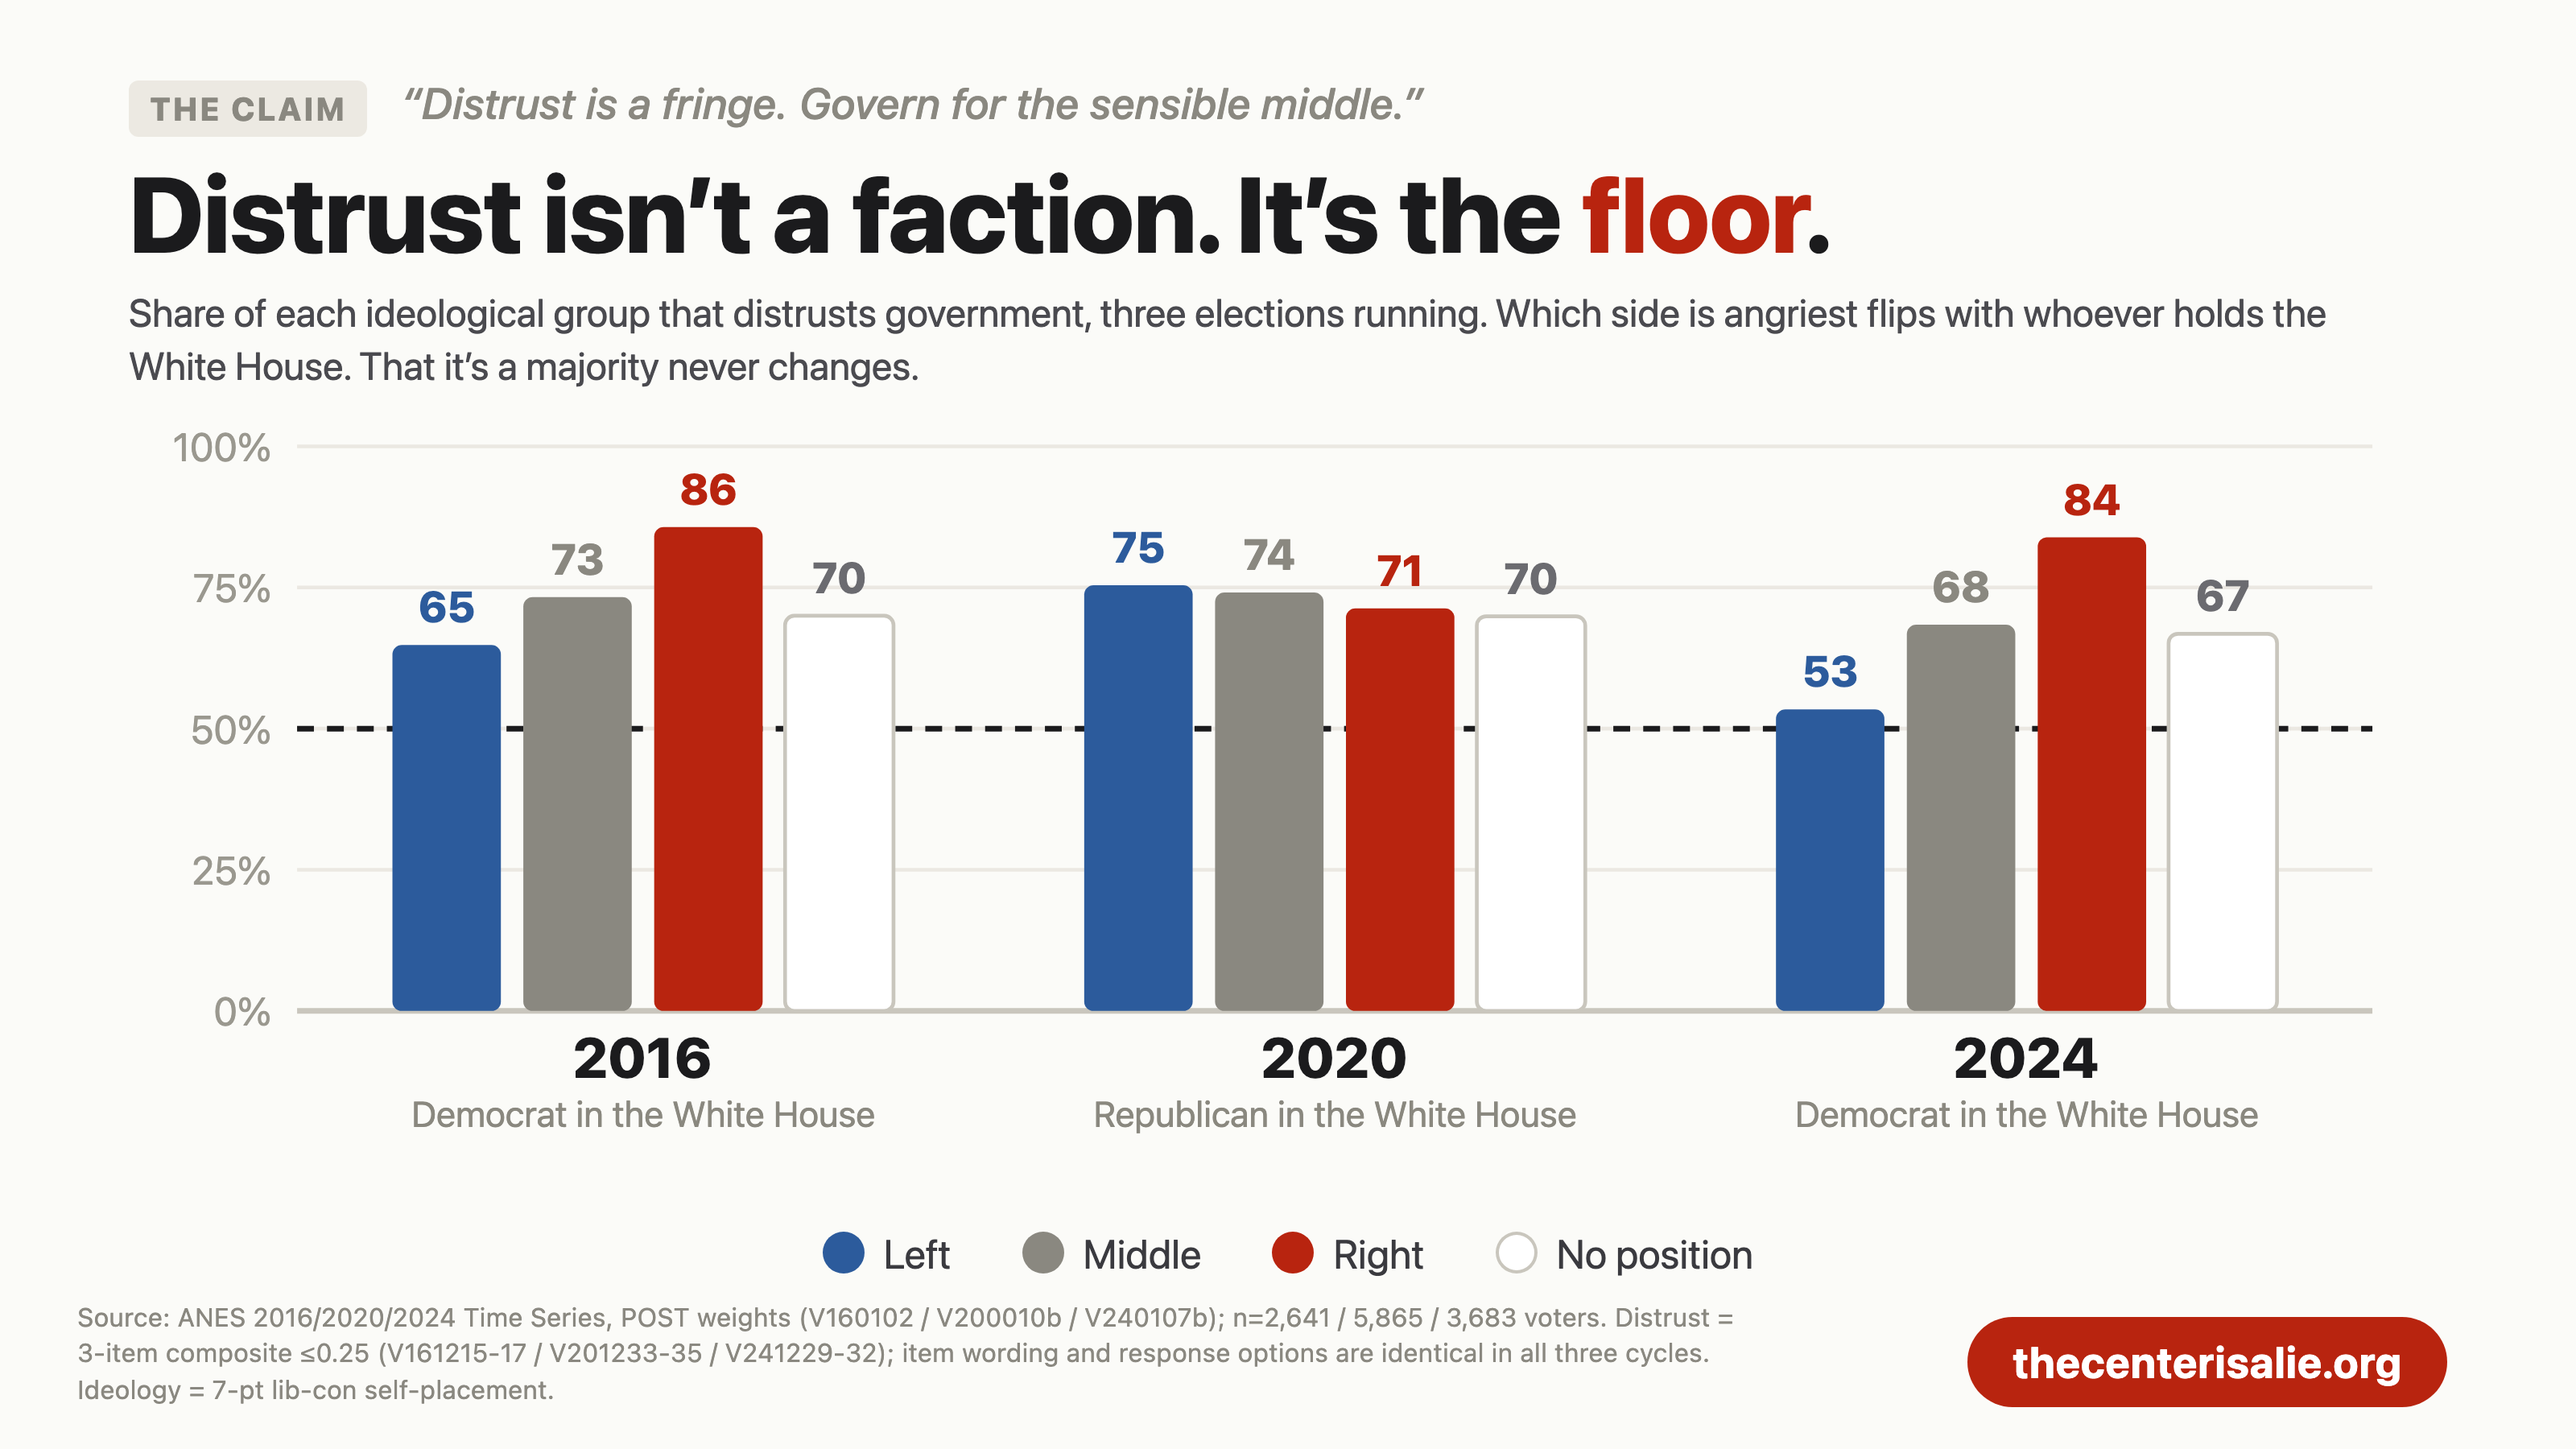
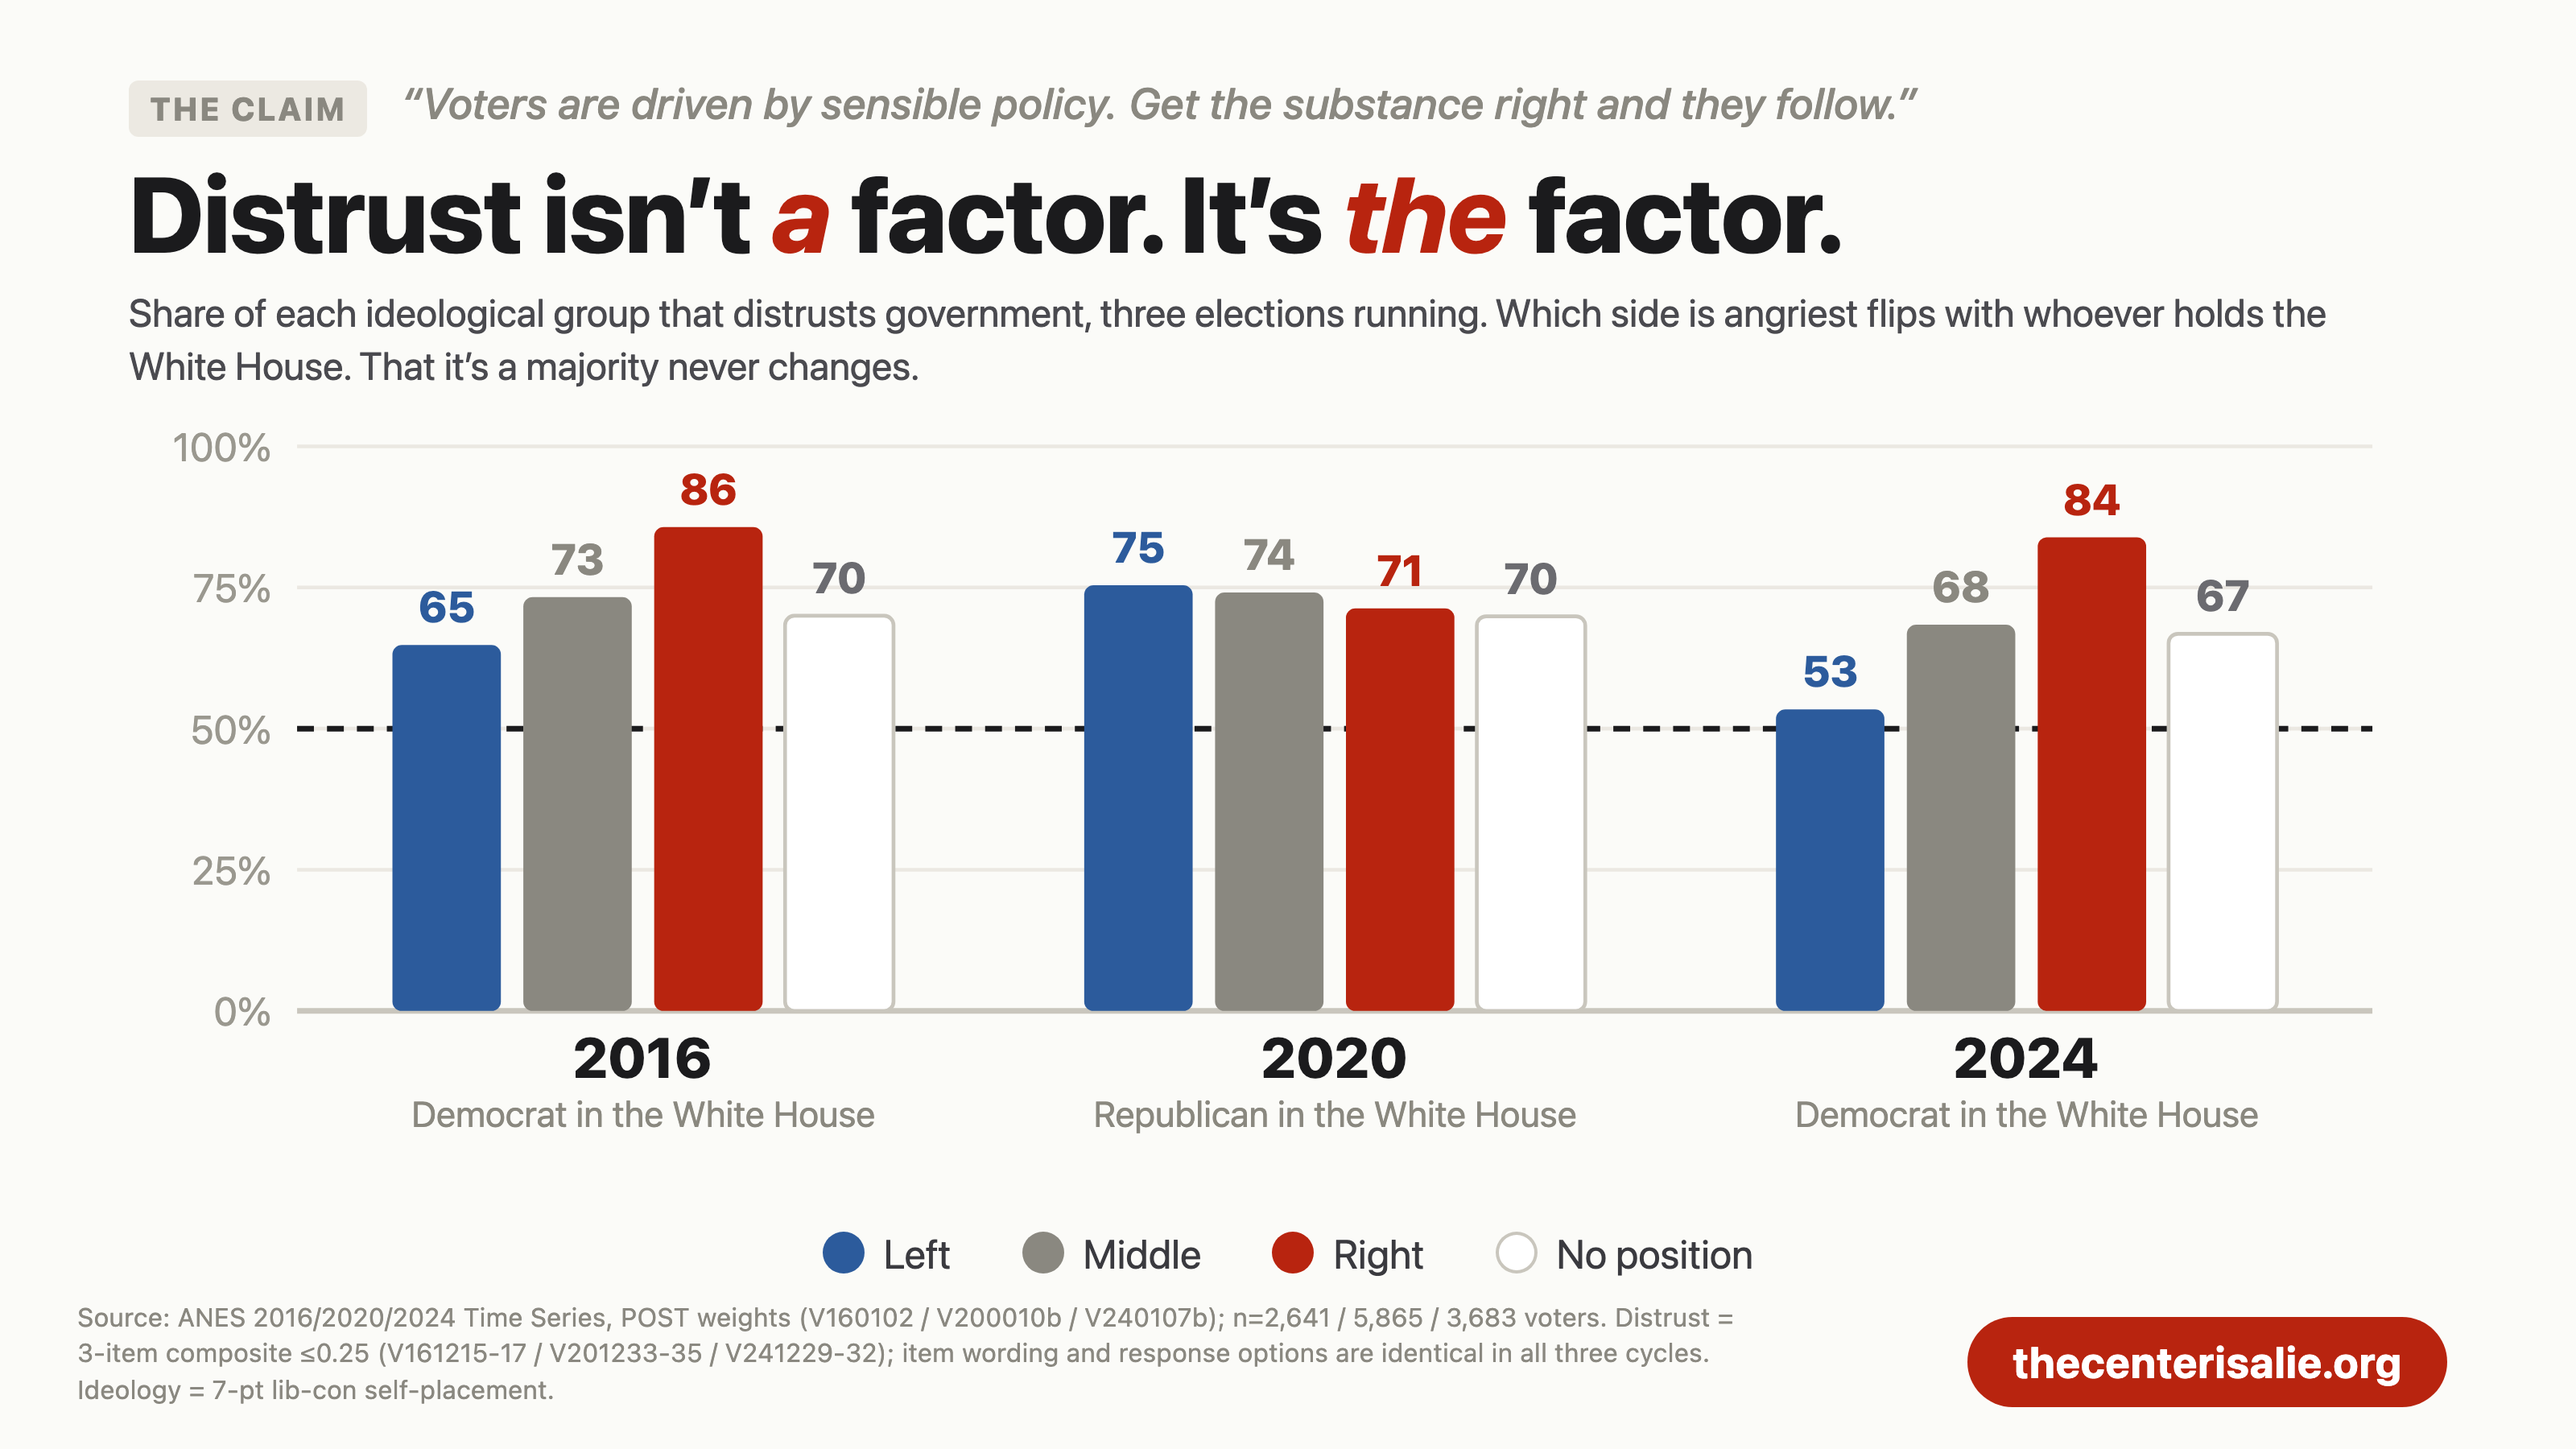
fix(og): sharpen trustfloor's claim and title
Claim now names the belief the card actually rebuts (that good policy is what
moves voters) rather than restating the finding. Title uses the a/the parallel
with both articles italicised and in the accent red so the contrast carries at
thumbnail size.

Changed region(s): [[0.4062, 0.1244, 0.7188, 0.1867], [0.1562, 0.0622, 0.75, 0.0933], [0.2812, 0.1244, 0.3438, 0.1867]]

diff --git a/web/og-cards/chart-trustfloor.html b/web/og-cards/chart-trustfloor.html
@@ -2,8 +2,8 @@
 <html lang="en"><head><meta charset="utf-8"><link rel="stylesheet" href="./chart-card.css"></head>
 <body>
   <div class="chartcard">
-    <div class="cc-claim"><span class="tag">The claim</span> &ldquo;Distrust is a fringe. Govern for the sensible middle.&rdquo;</div>
-    <div class="cc-title">Distrust isn&rsquo;t a faction. It&rsquo;s the <span class="hl">floor</span>.</div>
+    <div class="cc-claim"><span class="tag">The claim</span> &ldquo;Voters are driven by sensible policy. Get the substance right and they follow.&rdquo;</div>
+    <div class="cc-title">Distrust isn&rsquo;t <em class="hl">a</em> factor. It&rsquo;s <em class="hl">the</em> factor.</div>
     <div class="cc-sub">Share of each ideological group that distrusts government, three elections running. Which side is angriest flips with whoever holds the White House. That it&rsquo;s a majority never changes.</div>
 
     <div class="cc-chart"><svg id="tf" viewBox="0 0 1240 424" role="img"
